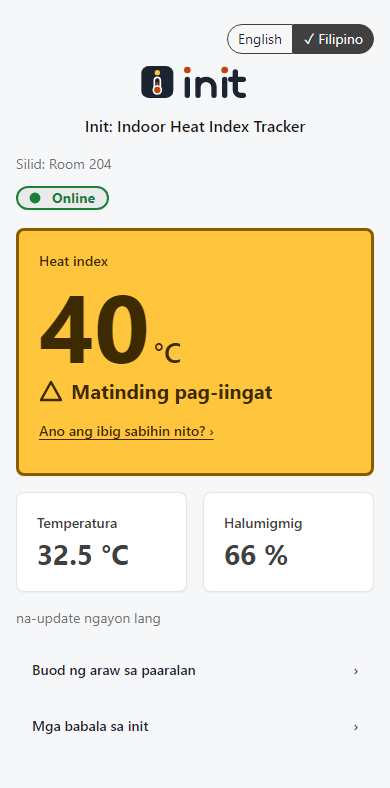
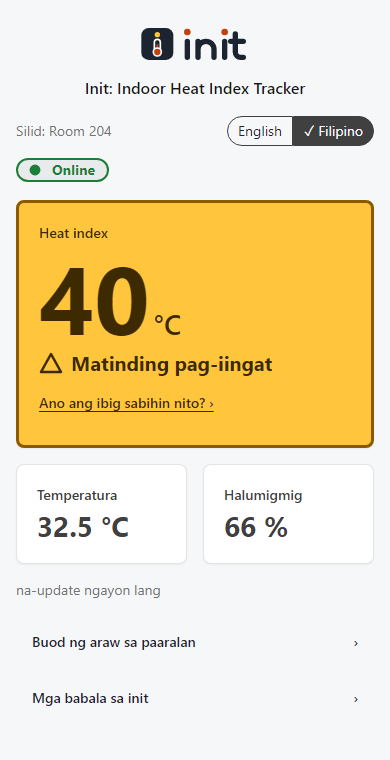
s36: language toggle mock moved onto the Room line

diff --git a/design/language-toggle/home-fil-longest.html b/design/language-toggle/home-fil-longest.html
@@ -4,15 +4,16 @@
 <link rel="stylesheet" href="../../web/node_modules/@tabler/core/dist/css/tabler.min.css">
 <link rel="stylesheet" href="../../web/src/tokens.css"><link rel="stylesheet" href="../../web/src/app.css"><link rel="stylesheet" href="../../web/src/school.css"><link rel="stylesheet" href="../../web/src/alerts.css">
 <style>
-.lang-switch{display:flex;justify-content:flex-end;margin:0 0 8px}
+.room-row{display:flex;align-items:center;justify-content:space-between;gap:8px;margin-bottom:12px}.room-row .app-room{margin:0}
+.lang-switch{display:flex;flex:none}
 .lang-btn{min-height:30px;min-width:30px;padding:0 10px;font:600 12px/1 inherit;font-family:inherit;border:1.5px solid var(--tblr-body-color,#182433);background:transparent;color:inherit;cursor:pointer}
 .lang-btn:first-child{border-radius:999px 0 0 999px;border-right-width:.75px}.lang-btn:last-child{border-radius:0 999px 999px 0;border-left-width:.75px}
 .lang-btn[aria-pressed="true"]{background:var(--tblr-body-color,#182433);color:var(--tblr-body-bg,#fff)}
 </style></head><body>
 <main class="app-wrap">
-  <header class="app-head"><div class="lang-switch" role="group" aria-label="Language / Wika">
+  <header class="app-head"><picture class="app-logo"><source media="(prefers-color-scheme: dark)" srcset="../../web/public/logo-dark.svg"><img src="../../web/public/logo-light.svg" width="110" height="40" alt=""></picture><h1 class="app-fullname">Init: Indoor Heat Index Tracker</h1><div class="room-row"><p class="text-secondary app-room">Silid: Room 204</p><div class="lang-switch" role="group" aria-label="Language / Wika">
     <button type="button" class="lang-btn" lang="en" aria-pressed="false">English</button>
-    <button type="button" class="lang-btn" lang="fil" aria-pressed="true"><span aria-hidden="true">✓ </span>Filipino</button></div><picture class="app-logo"><source media="(prefers-color-scheme: dark)" srcset="../../web/public/logo-dark.svg"><img src="../../web/public/logo-light.svg" width="110" height="40" alt=""></picture><h1 class="app-fullname">Init: Indoor Heat Index Tracker</h1><p class="text-secondary app-room">Silid: Room 204</p>
+    <button type="button" class="lang-btn" lang="fil" aria-pressed="true"><span aria-hidden="true">✓ </span>Filipino</button></div></div>
     <p class="status status-offline" role="status"><svg viewBox="0 0 24 24" aria-hidden="true"><circle cx="12" cy="12" r="9"/><path d="M8 8l8 8M16 8l-8 8"/></svg>Offline: walang reading sa loob ng 12 min</p></header>
   <section class="card heat heat-extreme-danger" aria-label="Heat index"><div class="card-body">
     <p class="app-label">Huling heat index</p>

diff --git a/design/language-toggle/home-fil.html b/design/language-toggle/home-fil.html
@@ -4,15 +4,16 @@
 <link rel="stylesheet" href="../../web/node_modules/@tabler/core/dist/css/tabler.min.css">
 <link rel="stylesheet" href="../../web/src/tokens.css"><link rel="stylesheet" href="../../web/src/app.css"><link rel="stylesheet" href="../../web/src/school.css"><link rel="stylesheet" href="../../web/src/alerts.css">
 <style>
-.lang-switch{display:flex;justify-content:flex-end;margin:0 0 8px}
+.room-row{display:flex;align-items:center;justify-content:space-between;gap:8px;margin-bottom:12px}.room-row .app-room{margin:0}
+.lang-switch{display:flex;flex:none}
 .lang-btn{min-height:30px;min-width:30px;padding:0 10px;font:600 12px/1 inherit;font-family:inherit;border:1.5px solid var(--tblr-body-color,#182433);background:transparent;color:inherit;cursor:pointer}
 .lang-btn:first-child{border-radius:999px 0 0 999px;border-right-width:.75px}.lang-btn:last-child{border-radius:0 999px 999px 0;border-left-width:.75px}
 .lang-btn[aria-pressed="true"]{background:var(--tblr-body-color,#182433);color:var(--tblr-body-bg,#fff)}
 </style></head><body>
 <main class="app-wrap">
-  <header class="app-head"><div class="lang-switch" role="group" aria-label="Language / Wika">
+  <header class="app-head"><picture class="app-logo"><source media="(prefers-color-scheme: dark)" srcset="../../web/public/logo-dark.svg"><img src="../../web/public/logo-light.svg" width="110" height="40" alt=""></picture><h1 class="app-fullname">Init: Indoor Heat Index Tracker</h1><div class="room-row"><p class="text-secondary app-room">Silid: Room 204</p><div class="lang-switch" role="group" aria-label="Language / Wika">
     <button type="button" class="lang-btn" lang="en" aria-pressed="false">English</button>
-    <button type="button" class="lang-btn" lang="fil" aria-pressed="true"><span aria-hidden="true">✓ </span>Filipino</button></div><picture class="app-logo"><source media="(prefers-color-scheme: dark)" srcset="../../web/public/logo-dark.svg"><img src="../../web/public/logo-light.svg" width="110" height="40" alt=""></picture><h1 class="app-fullname">Init: Indoor Heat Index Tracker</h1><p class="text-secondary app-room">Silid: Room 204</p>
+    <button type="button" class="lang-btn" lang="fil" aria-pressed="true"><span aria-hidden="true">✓ </span>Filipino</button></div></div>
     <p class="status status-online" role="status"><svg viewBox="0 0 24 24" aria-hidden="true"><circle class="dot" cx="12" cy="12" r="6"/></svg>Online</p></header>
   <section class="card heat heat-extreme-caution" aria-label="Heat index"><div class="card-body">
     <p class="app-label">Heat index</p>

diff --git a/design/language-toggle/home-en.html b/design/language-toggle/home-en.html
@@ -4,15 +4,16 @@
 <link rel="stylesheet" href="../../web/node_modules/@tabler/core/dist/css/tabler.min.css">
 <link rel="stylesheet" href="../../web/src/tokens.css"><link rel="stylesheet" href="../../web/src/app.css"><link rel="stylesheet" href="../../web/src/school.css"><link rel="stylesheet" href="../../web/src/alerts.css">
 <style>
-.lang-switch{display:flex;justify-content:flex-end;margin:0 0 8px}
+.room-row{display:flex;align-items:center;justify-content:space-between;gap:8px;margin-bottom:12px}.room-row .app-room{margin:0}
+.lang-switch{display:flex;flex:none}
 .lang-btn{min-height:30px;min-width:30px;padding:0 10px;font:600 12px/1 inherit;font-family:inherit;border:1.5px solid var(--tblr-body-color,#182433);background:transparent;color:inherit;cursor:pointer}
 .lang-btn:first-child{border-radius:999px 0 0 999px;border-right-width:.75px}.lang-btn:last-child{border-radius:0 999px 999px 0;border-left-width:.75px}
 .lang-btn[aria-pressed="true"]{background:var(--tblr-body-color,#182433);color:var(--tblr-body-bg,#fff)}
 </style></head><body>
 <main class="app-wrap">
-  <header class="app-head"><div class="lang-switch" role="group" aria-label="Language / Wika">
+  <header class="app-head"><picture class="app-logo"><source media="(prefers-color-scheme: dark)" srcset="../../web/public/logo-dark.svg"><img src="../../web/public/logo-light.svg" width="110" height="40" alt=""></picture><h1 class="app-fullname">Init: Indoor Heat Index Tracker</h1><div class="room-row"><p class="text-secondary app-room">Room: Room 204</p><div class="lang-switch" role="group" aria-label="Language / Wika">
     <button type="button" class="lang-btn" lang="en" aria-pressed="true"><span aria-hidden="true">✓ </span>English</button>
-    <button type="button" class="lang-btn" lang="fil" aria-pressed="false">Filipino</button></div><picture class="app-logo"><source media="(prefers-color-scheme: dark)" srcset="../../web/public/logo-dark.svg"><img src="../../web/public/logo-light.svg" width="110" height="40" alt=""></picture><h1 class="app-fullname">Init: Indoor Heat Index Tracker</h1><p class="text-secondary app-room">Room: Room 204</p>
+    <button type="button" class="lang-btn" lang="fil" aria-pressed="false">Filipino</button></div></div>
     <p class="status status-online" role="status"><svg viewBox="0 0 24 24" aria-hidden="true"><circle class="dot" cx="12" cy="12" r="6"/></svg>Online</p></header>
   <section class="card heat heat-extreme-caution" aria-label="Heat index"><div class="card-body">
     <p class="app-label">Heat index</p>

diff --git a/design/language-toggle/README.md b/design/language-toggle/README.md
@@ -10,7 +10,7 @@
 | `build-mocks.mjs`, `capture.mjs` | Write the mocks and the screenshots |
 
 ## What is proposed
-- **The switch:** two buttons, English and Filipino, in one outlined pill at the top right of the header on every page (30 px tall, 12 px text; WCAG 2.2 minimum target is 24 px). The chosen one is filled and has a check mark, so colour is not the only signal. Choice kept on the phone (localStorage), default English; the page's `lang` attribute follows it.
+- **The switch:** two buttons, English and Filipino, in one outlined pill on the same line as "Room: ...", right-aligned (owner, s36) (30 px tall, 12 px text; WCAG 2.2 minimum target is 24 px). The chosen one is filled and has a check mark, so colour is not the only signal. Choice kept on the phone (localStorage), default English; the page's `lang` attribute follows it.
 - **Everything the app says** moves into one English list and one Filipino list. Not translated on purpose: the brand "Init", "heat index" (PAGASA uses the English term), units, and numbers.
 - **Not covered by the first version (say if you want them):** the `#heat` page paragraphs, the `#guide` pages, the admin view, alerts push text, the kiosk and the poster. The proposal is to do the home, school day, alerts page and status texts first; the long advice and guide pages after a teacher has reviewed the first set.
 
